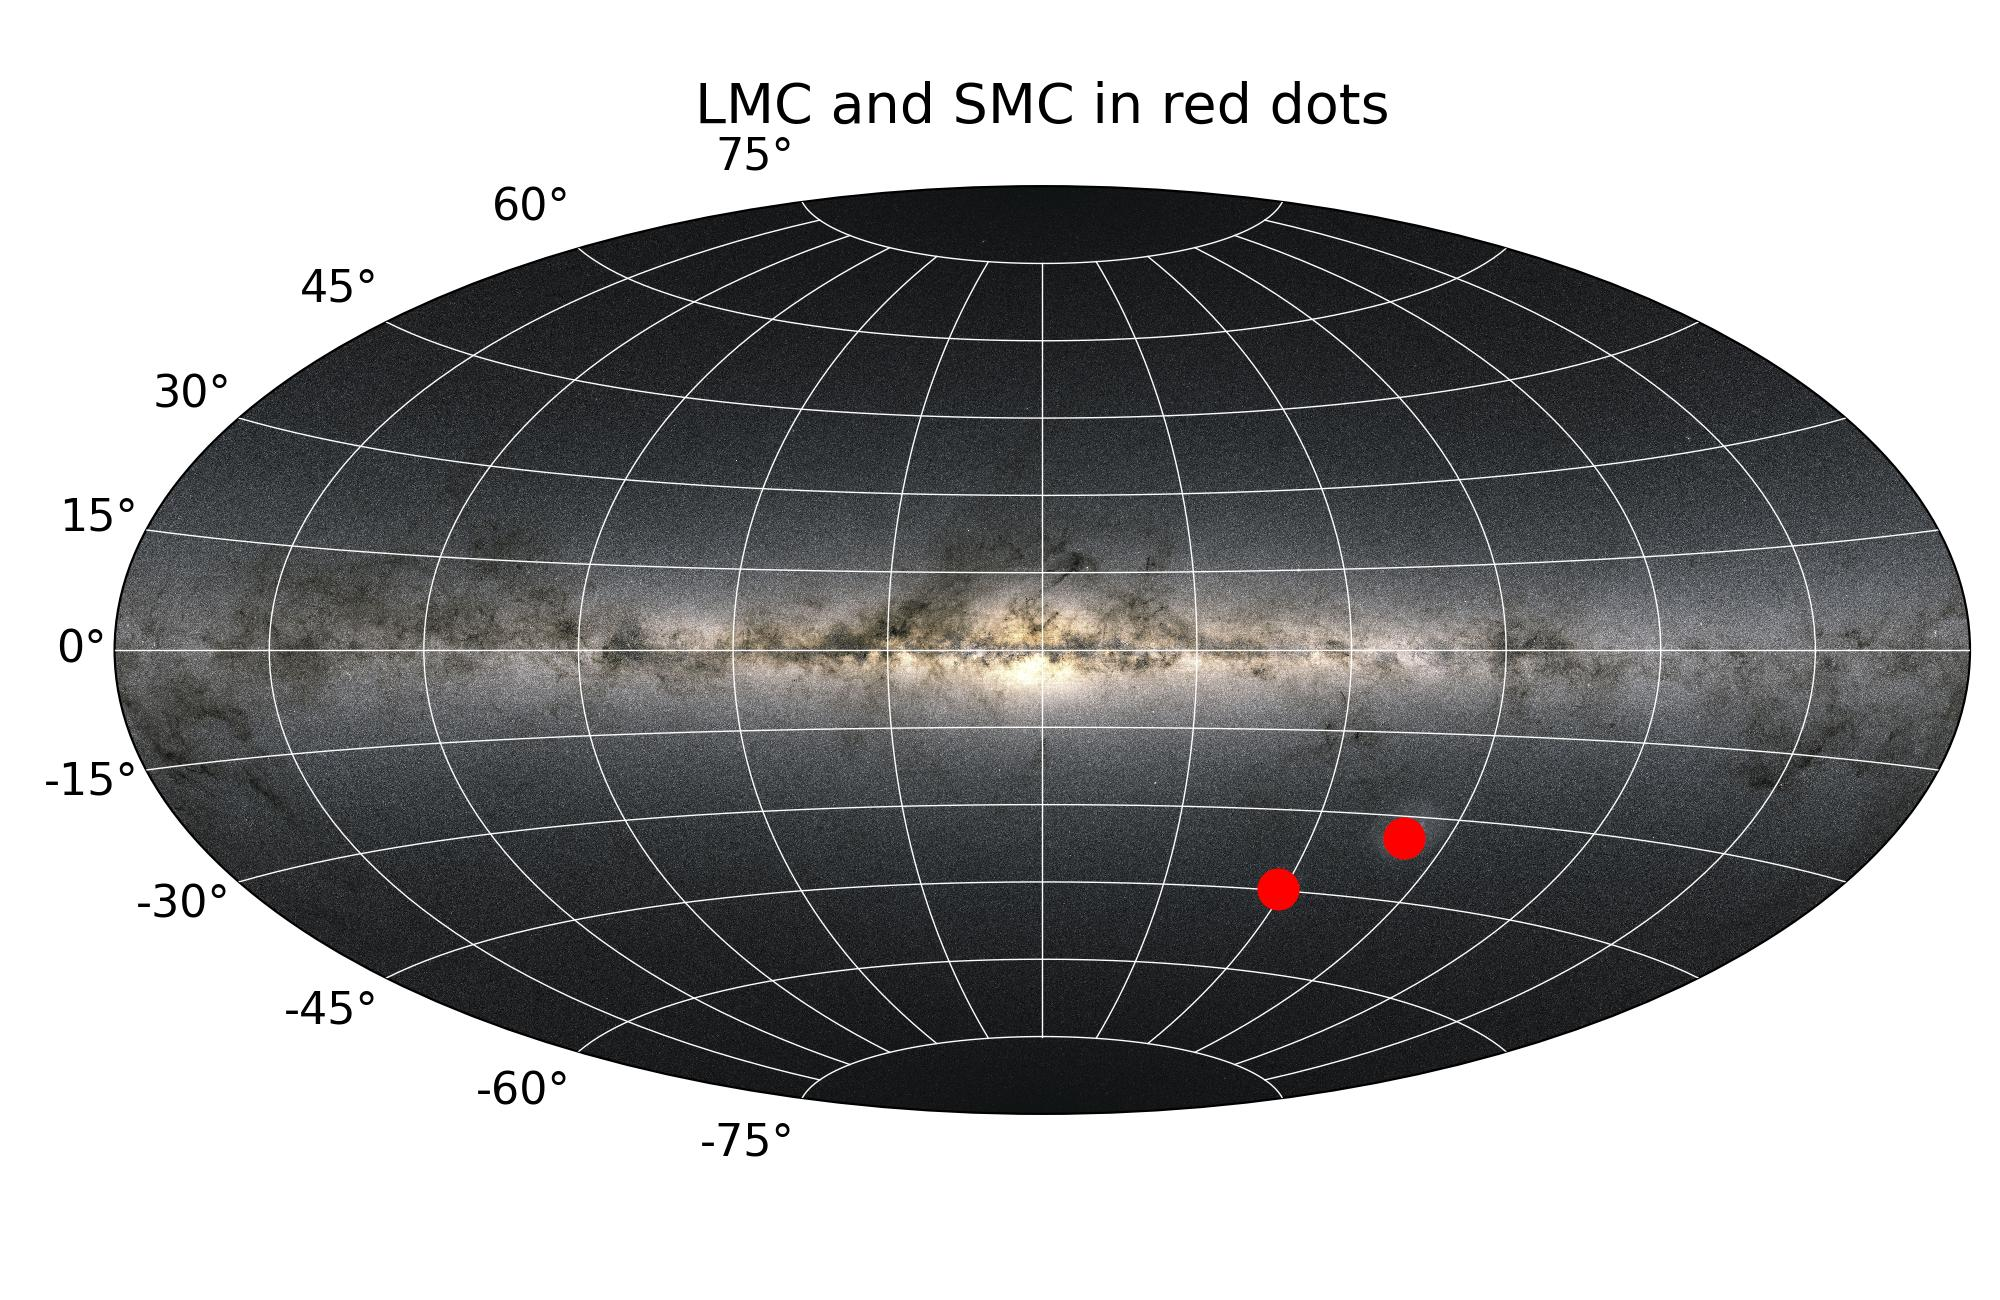
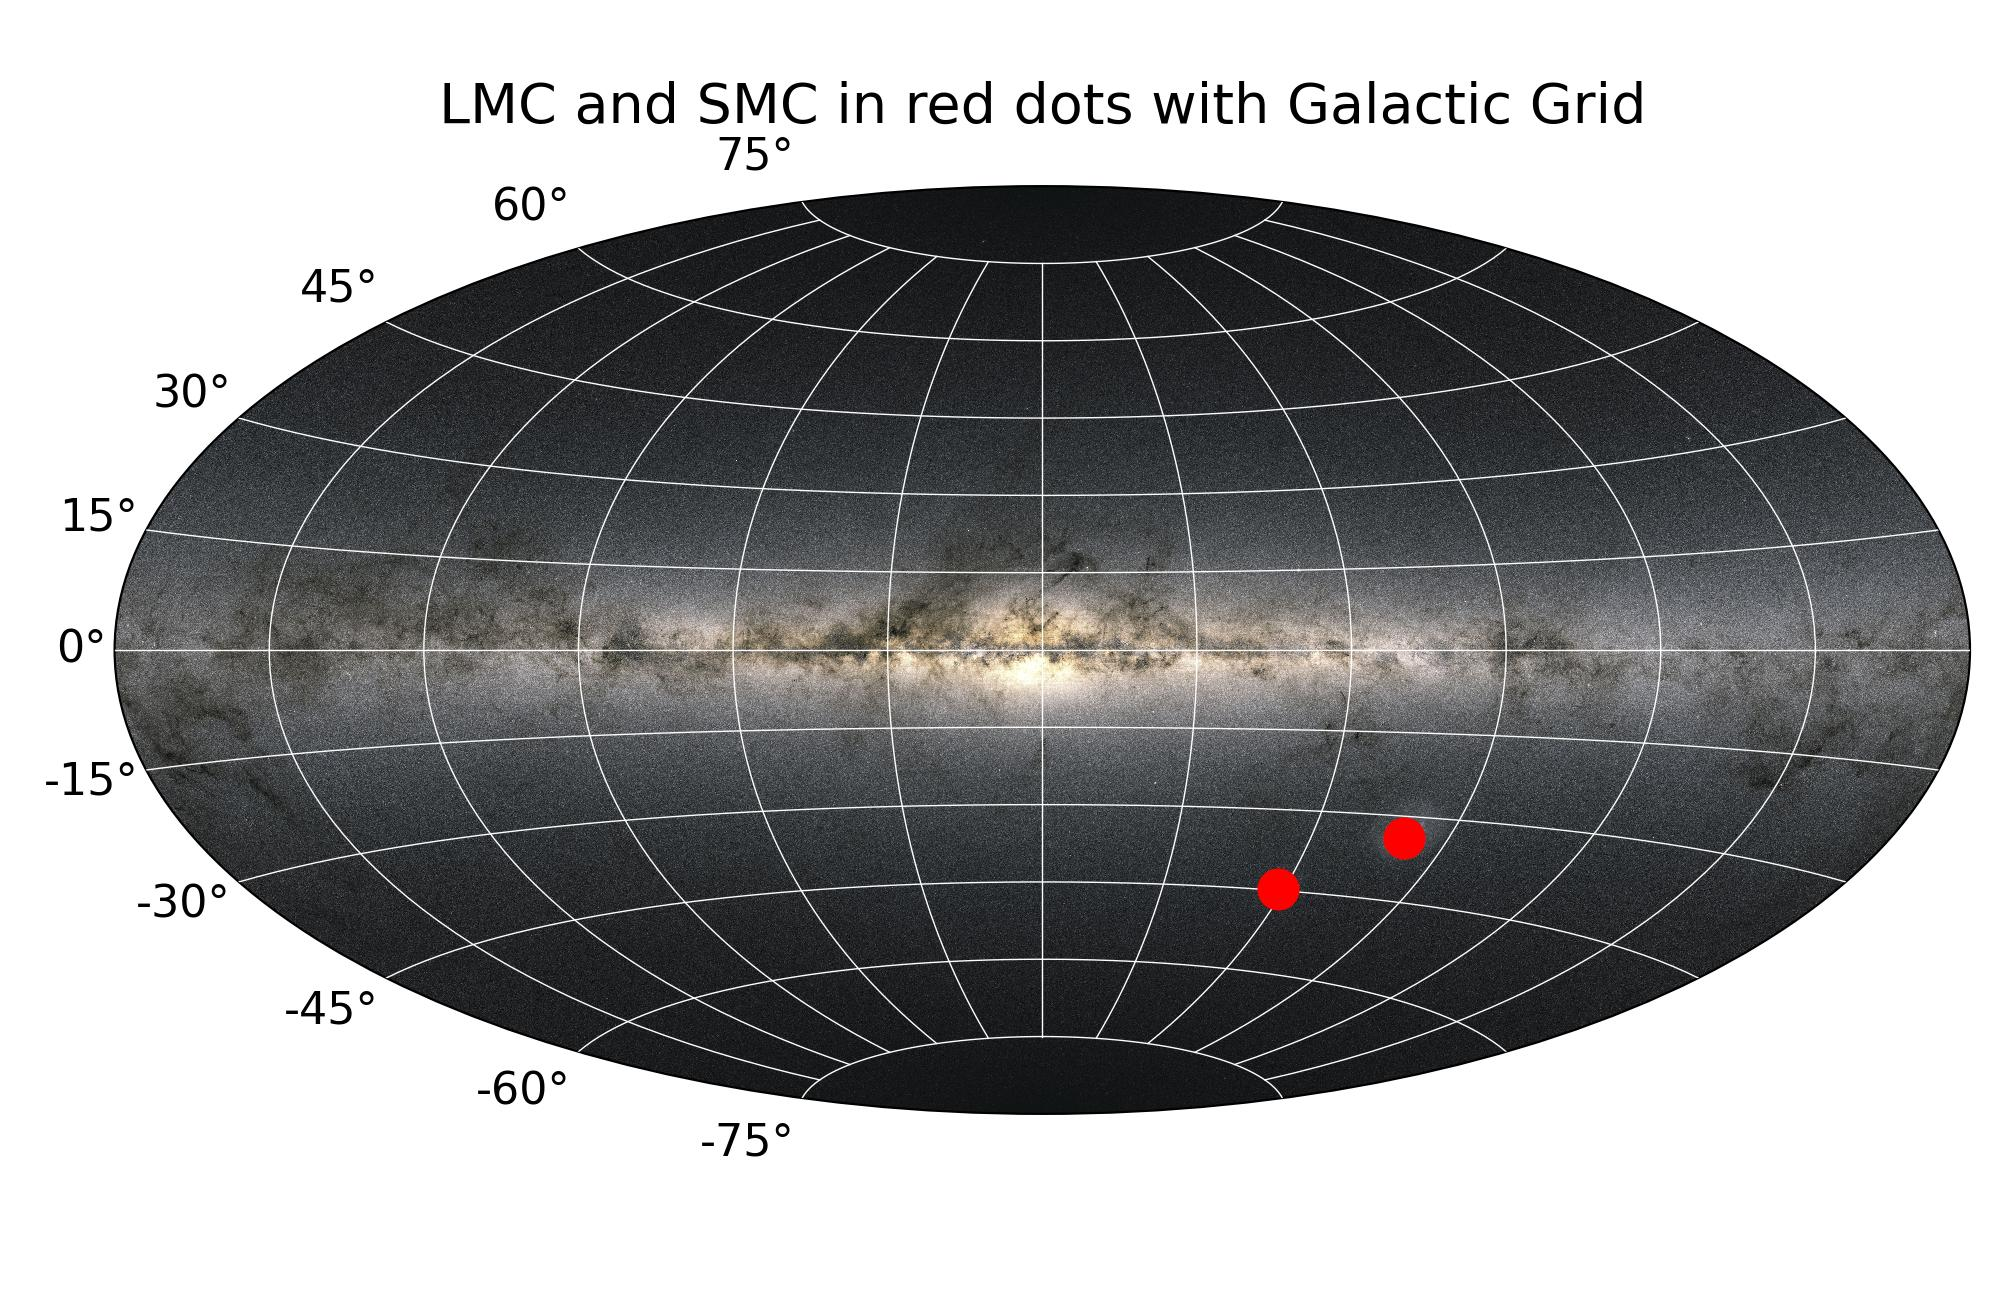
add showing RA/DEC grid in skymap

Changed region(s): [[0.217, 0.0615, 0.837, 0.0923]]

diff --git a/mw_plot/mw_plot_matplotlib.py b/mw_plot/mw_plot_matplotlib.py
@@ -5,6 +5,7 @@ import numpy as np
 
 import astropy.units as u
 import astropy.coordinates as apycoords
+from galpy.util.coords import radec_to_lb
 
 import pylab as plt
 from matplotlib.colors import LinearSegmentedColormap
@@ -439,8 +440,10 @@ class MWSkyMap(MWSkyMapMaster):
     :type radius: astropy.Quantity
     :param grayscale: whether to use grayscale background
     :type grayscale: bool
-    :param grid: whether to show grid
+    :param grid: whether to show galactic grid
     :type grid: bool
+    :param radecgrid: whether to show ra & dec grid
+    :type radecgrid: bool
 
     :param figsize: Matplotlib figure size
     :type figsize: turple
@@ -455,6 +458,7 @@ class MWSkyMap(MWSkyMapMaster):
         radius=(180, 90) * u.deg,
         grayscale=False,
         grid=False,
+        radecgrid=False,
         figsize=(10, 6.5),
         dpi=None,
     ):
@@ -473,6 +477,7 @@ class MWSkyMap(MWSkyMapMaster):
         self.cmap = "viridis"
         self.imalpha = 1.0
         self.tight_layout = True
+        self.radecgrid = radecgrid
 
         self.fig = None
         self.ax = None
@@ -629,6 +634,37 @@ class MWSkyMap(MWSkyMapMaster):
                     self.ax.plot(np.deg2rad([-180, 180]), np.deg2rad([i, i]), c=self._opposite_color, lw=0.5, zorder=3)
                 for i in [-150, -120, -90, -60, -30, 0, 30, 60, 90, 120, 150]:
                     self.ax.plot(np.deg2rad([i, i]), np.deg2rad([-75, 75]), c=self._opposite_color, lw=0.5, zorder=3)
+
+            if self.radecgrid is True:
+                for i in [-75, -60, -45, -30, -15, 0, 15, 30, 45, 60, 75]:
+                    ras = np.linspace(0, 360, 180)
+                    des = np.linspace(i, i, 180)
+                    l, b = radec_to_lb(ras, des, degree=True).T
+                    l = l - 180.
+                    if np.max(np.diff(l)) > 2.:
+                        idx = np.argmax(l) + 1
+                        l = np.concatenate([l[idx:], l[:idx]])
+                        b = np.concatenate([b[idx:], b[:idx]])
+                    idx = np.argsort(l)
+                    self.ax.plot(np.deg2rad(l), np.deg2rad(b), c="white", lw=0.5, zorder=3)
+
+
+                for i in [30, 60, 90, 120, 150, 180, 210, 240, 270, 300, 330]:
+                    ras = np.linspace(i, i, 180)
+                    des = np.linspace(-75, 75, 180)
+                    l, b = radec_to_lb(ras, des, degree=True).T
+                    l = l - 180.
+                    if np.max(np.diff(l)) > 0.5:
+                        idx = np.argmax(np.diff(l))
+                        idx = np.argmax(l) + 1
+                        l = np.concatenate([l[idx:], l[:idx]])
+                        b = np.concatenate([b[idx:], b[:idx]])
+                        idx_break = np.argmax(np.diff(l))
+                        self.ax.plot(np.deg2rad(l[:idx_break]), np.deg2rad(b[:idx_break]), c="white", lw=0.5, zorder=3)
+                        self.ax.plot(np.deg2rad(l[idx_break+1:]), np.deg2rad(b[idx_break+1:]), c="white", lw=0.5, zorder=3) 
+                    else:
+                        self.ax.plot(np.deg2rad(l), np.deg2rad(b), c="white", lw=0.5, zorder=3)
+
 
     def show(self, *args, **kwargs):
         if self.fig is None:

diff --git a/setup.py b/setup.py
@@ -21,7 +21,7 @@ setup(
     include_package_data=True,
     package_data={"mw_plot": ["*.png", "*.jpg"]},
     python_requires=">=3.7",
-    install_requires=["requests", "numpy", "astropy", "matplotlib", "Pillow", "bokeh"],
+    install_requires=["requests", "numpy", "astropy", "matplotlib", "Pillow", "bokeh", "galpy"],
     url="https://github.com/henrysky/milkyway_plot",
     project_urls={
         "Bug Tracker": "https://github.com/henrysky/milkyway_plot/issues",

diff --git a/docs/source/matplotlib_single.rst b/docs/source/matplotlib_single.rst
@@ -95,11 +95,11 @@ You can also plot with grid
     from mw_plot import MWSkyMap
 
     # setup a MWSkyMap instance with projection, other projection can be 'hammer', 'mollweide' etc
-    # grid: whether to show the grid
+    # grid: whether to show the Galactic grid
     mw1 = MWSkyMap(projection="aitoff", grid=True)
 
     # set up plot title
-    mw1.title = "LMC and SMC in red dots"
+    mw1.title = "LMC and SMC in red dots with Galactic Grid"
 
     # LMC and SMC coordinates
     lsmc_ra = [78.77, 16.26] * u.degree
@@ -108,3 +108,25 @@ You can also plot with grid
     mw1.scatter(lsmc_ra, lsmc_dec, c="r", s=200)
 
 .. image:: matplotlib_imgs/single_lmcsmc_w_grid.jpg
+
+.. code-block:: python
+    :linenos:
+
+    import numpy as np
+    from astropy import units as u
+    from mw_plot import MWSkyMap
+
+    # setup a MWSkyMap instance with projection, other projection can be 'hammer', 'mollweide' etc
+    # radecgrid: whether to show the RA/DEC grid
+    mw1 = MWSkyMap(projection="aitoff", radecgrid=True)
+
+    # set up plot title
+    mw1.title = "LMC and SMC in red dots with RA/DEC Grid"
+
+    # LMC and SMC coordinates
+    lsmc_ra = [78.77, 16.26] * u.degree
+    lsmc_dec = [-69.01, -72.42] * u.degree
+
+    mw1.scatter(lsmc_ra, lsmc_dec, c="r", s=200)
+
+.. image:: matplotlib_imgs/single_lmcsmc_w_radecgrid.jpg
